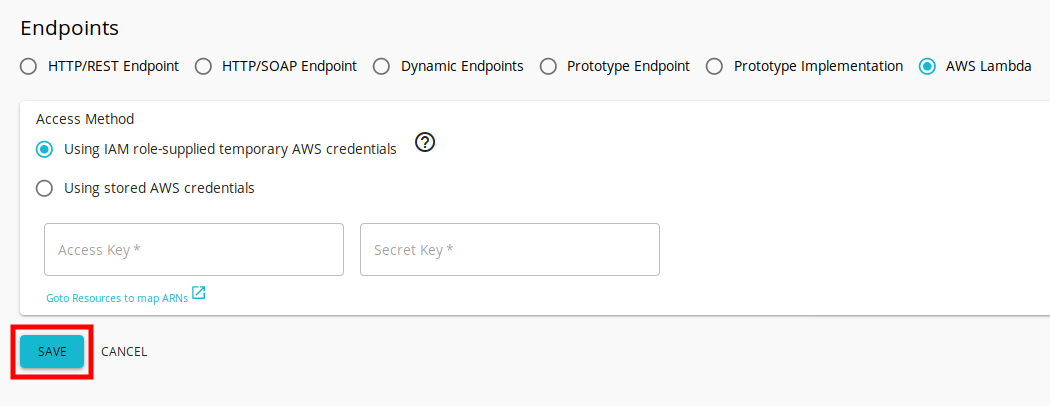
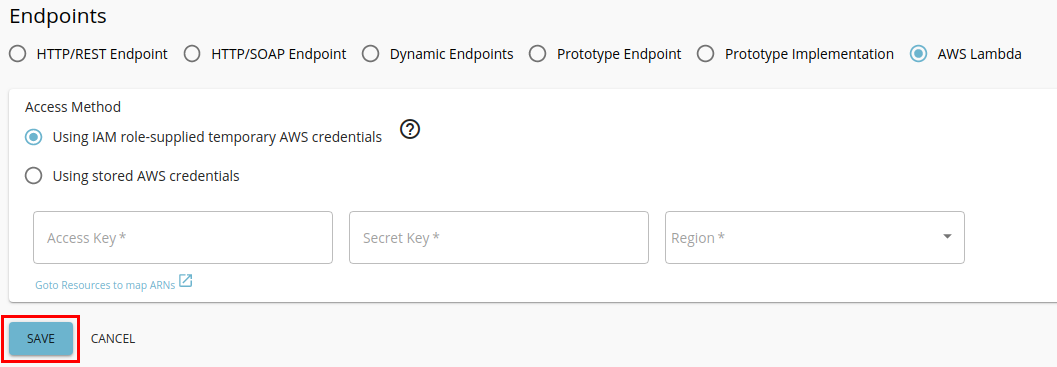
Fixing outdated screenshot and instructions

diff --git a/en/docs/learn/tutorials/create-and-publish-awslambda-api.md b/en/docs/learn/tutorials/create-and-publish-awslambda-api.md
@@ -29,9 +29,9 @@ Now, you have created a new REST API successfully.
 
     [![Select AWS Lambda endpoint]({{base_path}}/assets/img/learn/endpoint-select-awslambda-endpoint.png)]({{base_path}}/assets/img/learn/endpoint-select-awslambda-endpoint.png)
 
-3. Select **Access Method**
+3. Select the preferred **Access Method**
 
-    AWS SDK needs AWS credentials to invoke AWS Lambda functions. The access method defines as to how you provide those AWS credentials. You can provide AWS credentials manually by selecting the **Using stored AWS credentials** method. But if WSO2 API Manager is running on an Amazon EC2 instance, you can select the **Using IAM role-supplied temporary AWS credentials** method.
+    AWS SDK needs AWS credentials including the AWS region to invoke AWS Lambda functions. The access method defines as to how you provide those AWS credentials. You can provide AWS credentials and the AWS region manually by selecting the **Using stored AWS credentials** method. But if WSO2 API Manager is running on an Amazon EC2 instance, you can select the **Using IAM role-supplied temporary AWS credentials** method.
 
     !!!note
          When using the **IAM role-supplied temporary AWS credentials** method, you need to attach an IAM role so that it can grant permission to applications running on the Amazon EC2 instance.
